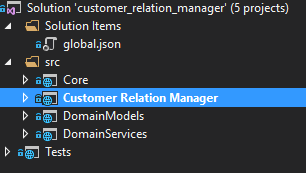
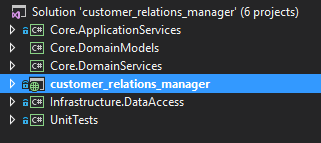
Updated structure

Changed region(s): [[0.0, 0.4196, 1.0, 0.9231], [0.0, 0.0, 0.9412, 0.3916]]

diff --git a/texfiles/design.tex b/texfiles/design.tex
@@ -5,7 +5,7 @@
 \label{sec:Database}
 The design of the database will look on many points similar to the domain model in figure~\ref{fig:domain_model}. This is because on a lot of the points in this system the domain model can be saved directly to the database. I have of course had to make some adjustments, as can be seen in figure~\ref{fig:Database model}.
 
-\begin{figure}[h]
+\begin{figure}
   \includegraphics[width=\textwidth]{db_model}
   \caption{Database model}
   \label{fig:Database model}
@@ -31,7 +31,18 @@ In the model I have a datatype that is not really related to the database as muc
 
 \section{System structure}
 \label{sec:System structure}
-The structure is made in a layered setup, this means that when we have a part of the system, it can only know about things on the same layer or lower than itself. In order for this to be implemented I have the solution as the upper node, and under this a couple of projects each in charge of its own domain.
+The structure of the system follows the onion model\todo{Reference to onion model}, which means that it is build up of layers like it can be seen on figure~\ref{fig:Onion architecture}.
+
+\begin{figure}[h]
+  \centering
+  \includegraphics{onion_model}
+  \caption{Onion architecture }
+  \label{fig:Onion architecture}
+\end{figure}
+\todo{Cite}
+% http://www.matthidinger.com/images/www_matthidinger_com/Windows-Live-Writer/ff0d136aee1f_88EA/image_2.png
+
+In figure~\ref{fig:structure} the setup that my project will follow is illustrated. As can be seen I have three core projects, one for each of the core layers of the model, and outside this I have an infrastructure layer, which is responsible for talking to the database. The way the outer most layers then work is by using the interfaces that is defined in \textit{Core.DomainServices}. These interfaces describe how the application can access the data however it is stored.
 
 \begin{figure}[h]
   \centering
@@ -40,13 +51,15 @@ The structure is made in a layered setup, this means that when we have a part of
   \label{fig:structure}
 \end{figure}
 
-On figure~\ref{fig:structure} an illustration of the structure is shown. The inner most part of the structure is the \textit{DomainModels} project, it does not rely on any of the other parts of the system, and can therefore be moved around as needed. One step further out we have the \textit{DomainServices} project, which consists of interfaces describing how to access the data. The reason I have these interfaces is so that we are not forced to use entity to access the data, and we can implement any way to do it we want. Which also means that we can make mocks of the services that will be implementing the interface, which is convenient when testing the controllers, as we then have more control over what is being tested.
+I use injection to allow for easier testing, and lower dependency between the classes. This means that in the project \textit{customer\_relations\_manager} which is where the controllers the users will be calling is implemented, take interfaces for the repositories defined in \textit{Core.DomainServices}. The injection system then is set up to inject the classes from \textit{Infrastructure.DataAccess} that implement the interfaces.
 
-The project \textit{Core} is responsible for implementing the interfaces described in DomainServices, which means that it will be implementing the the database access, and returning that back to the controller after all the appropriate things have been done.
+The \textit{Core.ApplicationServices} project is there in the case that we need a service that is not related to accessing data from the data store, but instead doing something else.
 
-The final bit of the structure is the one the user is talking to, which is called \textit{Customer Relation Manager}. This project is the actual web application part, which means it is the one the user is communicating with. In addition to having controllers here we also have DTOs which are objects that are mapped from the database objects so that we can filter some of the data away from the user. On the same level we also have the unit tests of the system. The reason for them being on this level is that each level is allowed to talk to other parts of the same level, and parts underneath. This also means that everyone is allowed to talk to the Domain models, but none but the tests are allowed to talk to Customer Relation Manager.
+Finally the inner most layer is the classes describing the data that is stored in my case in a database the name of this project is \textit{Core.DomainModels}. Their job is to describe how the data looks in the database, and they are used for making the database first migrations.
 
-Over all this separation forces me to follow or at least think about the separation of concerns pattern.
+The \textit{UnitTests} project is on the same level as \textit{customer\_relations\_manager}, which means that it is allowed to see everything in the project, allowing it to test it all.
+
+The goal with all this separation is to both make it easier to swap out parts of the project without too much hassle, and to be able to reuse parts, in case we want to do something similar in the future. It does however also force us to not have an uncontrollable mess of dependencies, since the domain models are never allowed to know anything other than them selves, and the data access layer cannot say anything about how the data will look in the end, only find and filter on it.
 
 \section{Patterns}
 \label{sec:Patterns}

diff --git a/texfiles/domain_analasys.tex b/texfiles/domain_analasys.tex
@@ -53,7 +53,7 @@ A feature that has been requested is that instead of having a sale of ex. 1.500.
 \label{sec:Use cases}
 From the requirements of section~\ref{sec:Requirements} I have created a use case diagram, to help identify the use cases that is in the project, as can be seen in Figure~\ref{fig:usecase_diagram}. To help create the diagram I used an Actor - Goal list, that can be seen in Appendix~\ref{app:actor-goal}.
 
-\begin{figure}[h!]
+\begin{figure}[h]
   \centering
   \includegraphics[width=\textwidth]{use_cases}
   \caption{Usecase diagram}

diff --git a/texfiles/appendices/actor-goal.tex b/texfiles/appendices/actor-goal.tex
@@ -1,6 +1,6 @@
 \chapter{Actor goal table}
 \label{app:actor-goal}
-The table here has been used to figure out what use cases the system should support, and the final use case diagram can be seen on Figure~\ref{fig:usecase}.
+The table here has been used to figure out what use cases the system should support, and the final use case diagram can be seen on Figure~\ref{fig:usecase_diagram}.
 
 Because of the way the user hierarchy is set up I have not duplicated the goal of the lower actors in the higher ranking ones, as they are all the same.
 

diff --git a/texfiles/technology.tex b/texfiles/technology.tex
@@ -87,7 +87,7 @@ The reason for such a bleeding edge technology is that they are in this iteratio
 
 
 \section{Database }
-\label{sec:Database}
+\label{sec:Database_engine}
 
 
 \section{Chapter summary }
